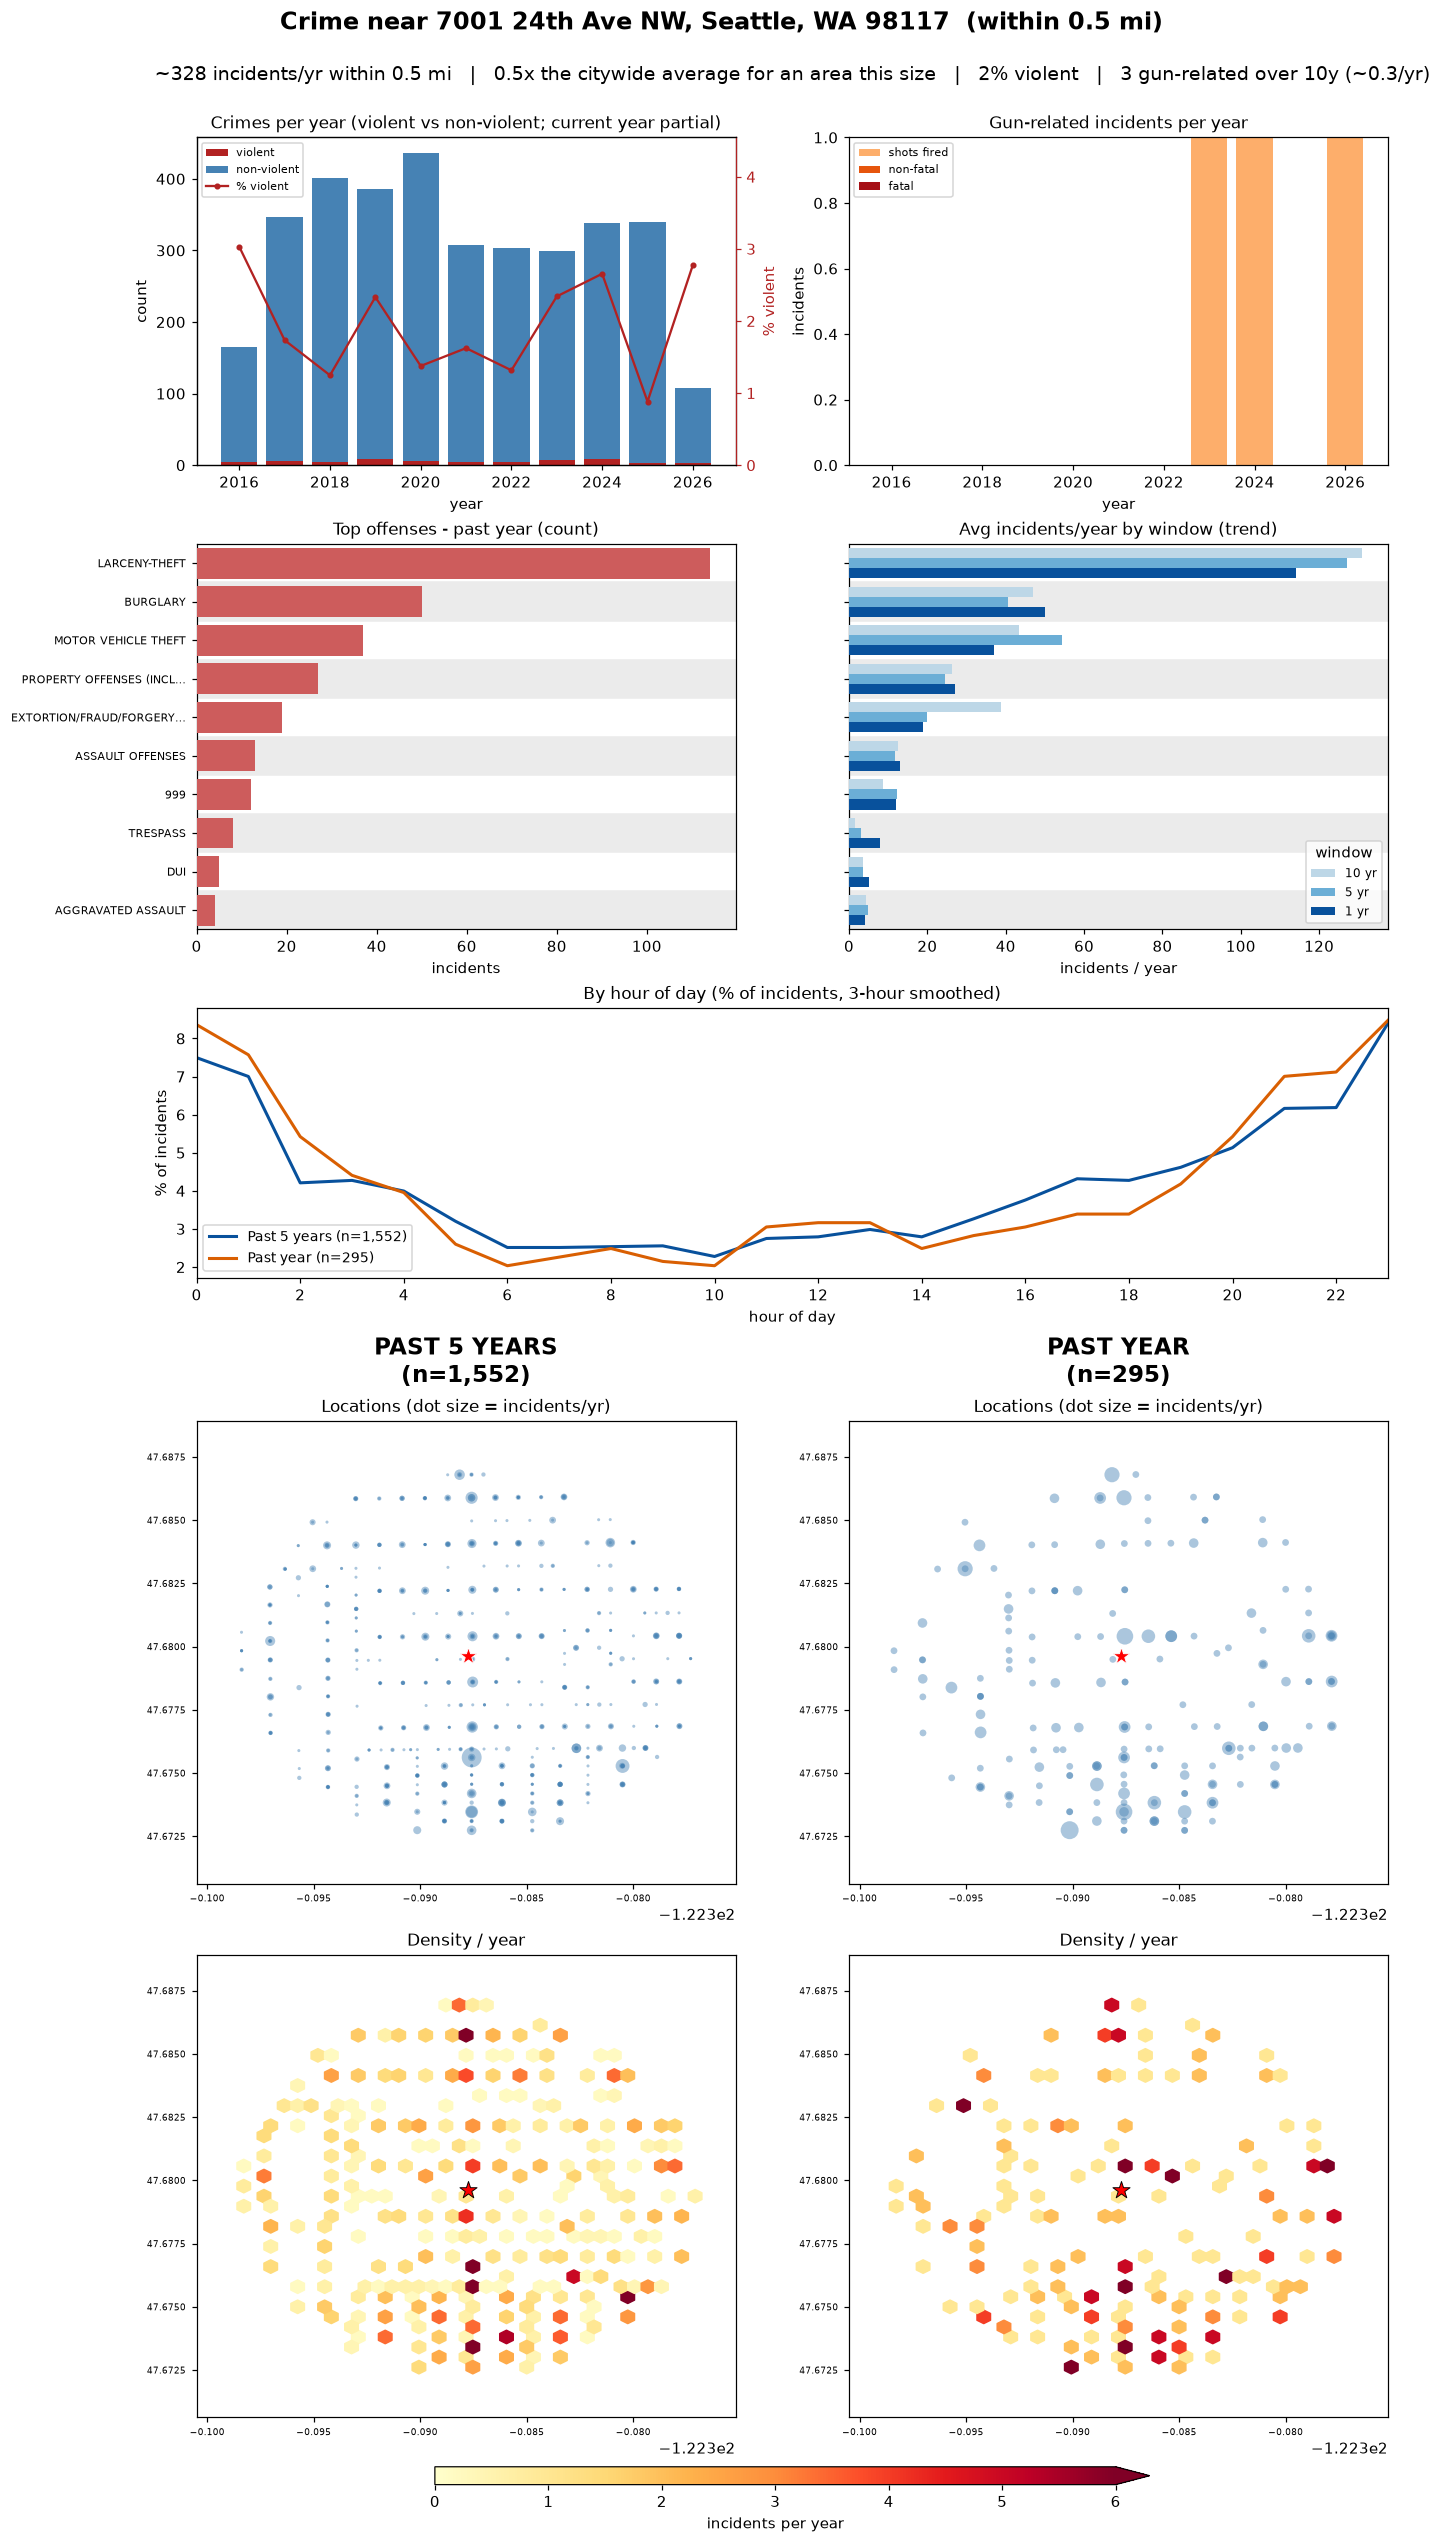
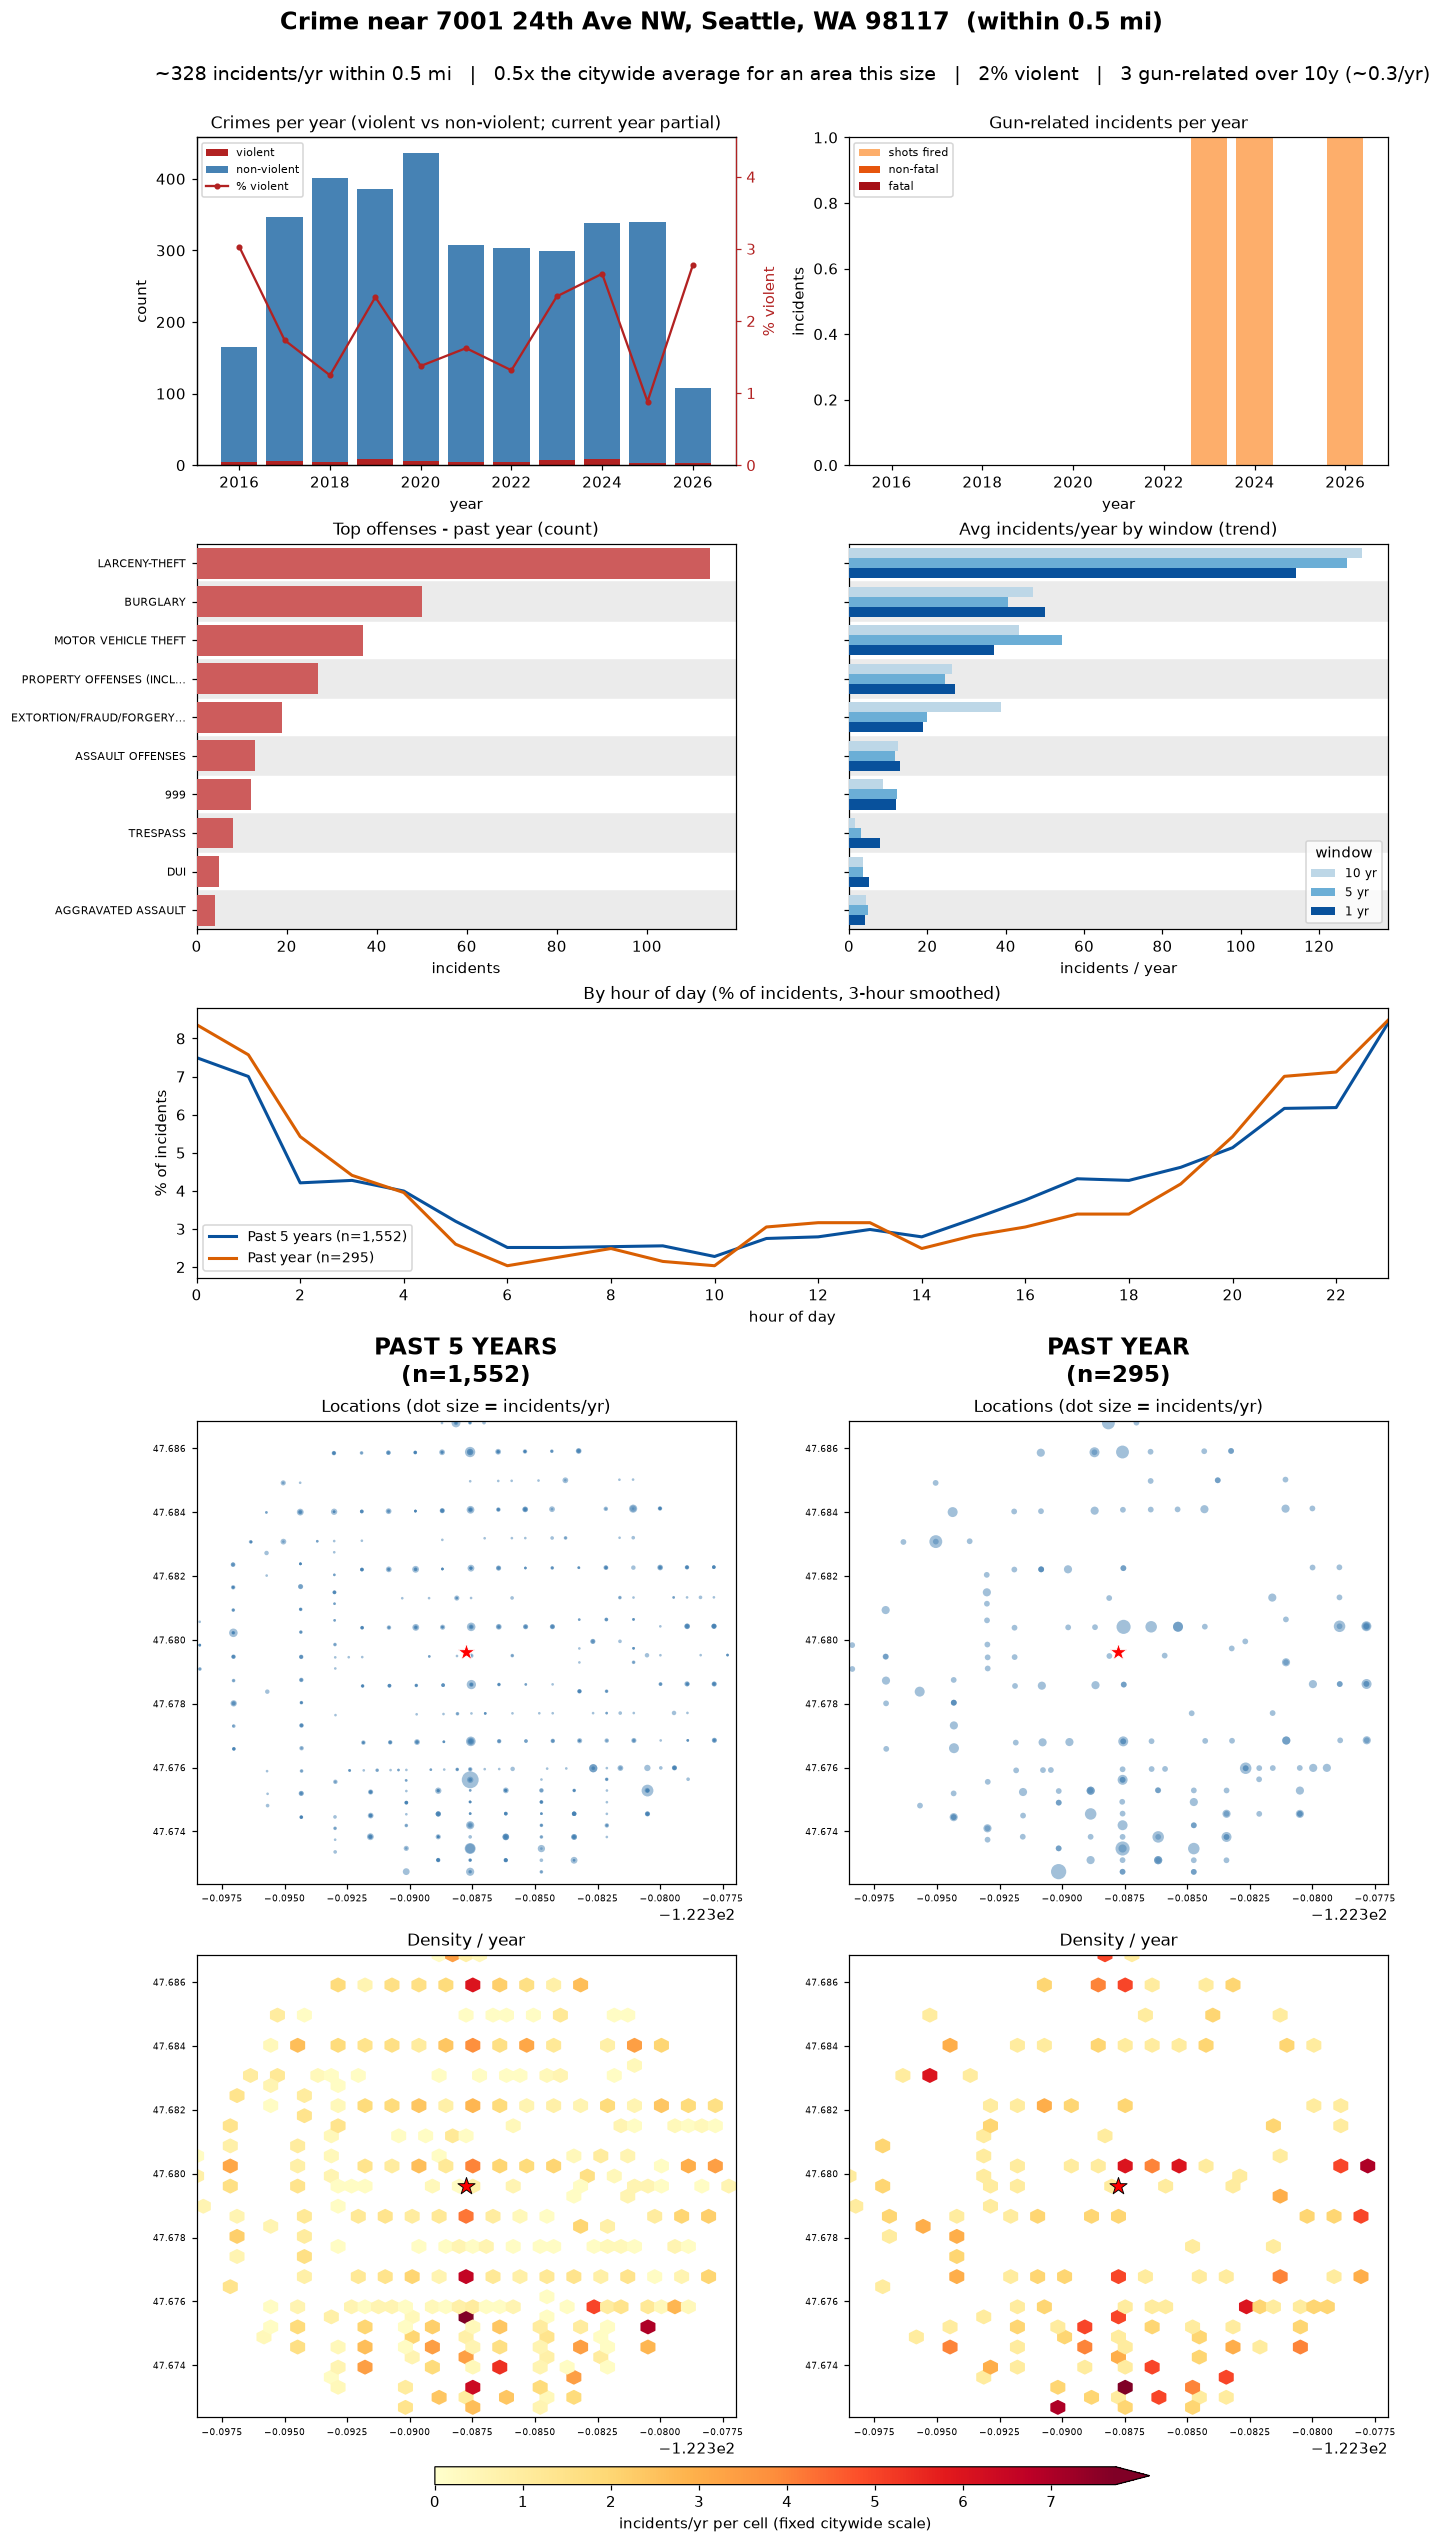
Anchor location/density maps to a citywide busy-block rate
Both maps were normalized per-address, so downtown and a quiet block looked
similarly dense. Pin the dot-size scale and the density color scale to a fixed
citywide reference (CITY_REF = 99th-percentile per-block incidents/year) and use
a fixed +/- radius map box, so maps are comparable BETWEEN dashboards — downtown
now reads far denser than Ballard.

- METHODOLOGY: document the citywide anchor and the fixed map box
- examples: rebuild downtown + Ballard with the anchored maps

diff --git a/METHODOLOGY.md b/METHODOLOGY.md
@@ -47,7 +47,7 @@ typical Seattle area of the same size?*, assuming the city's overall incident de
 Both `N_local` and `N_city` are counted over the **same** time window, so the window
 cancels and the ratio is time-independent. Equivalently:
 
-```
+```text
 ratio = (N_local / N_city) · (S / A)
 ```
 
@@ -88,26 +88,39 @@ each hour is `count_in_hour / total × 100`. Each curve is smoothed with a cente
 does not spike the line. Plotting percentages — rather than counts — lets the two
 periods be compared despite very different totals.
 
+## A citywide anchor for the maps
+
+Both maps are scaled against a single **citywide reference rate**, `CITY_REF` — the
+99th-percentile per-block incident rate across the whole city (a "busy block,"
+~8 incidents/year). Because Seattle reports coordinates at block level, every incident
+at a block stacks onto one point, so a block's rate is a natural unit. Pinning both maps
+to this same anchor — identical for every address — is what makes them **comparable
+between dashboards**: a dense area like downtown saturates while a quiet block stays
+pale, instead of each address being rescaled to its own maximum.
+
+Both maps also use a **fixed box of ±`RADIUS_MILES`** around the address, so the spatial
+scale (and the density cell size) is identical on every dashboard.
+
 ## Location map (proportional symbols)
 
 Incidents are collapsed to **unique block points**; each point's rate is
-`count / period_years`. Marker **area** is proportional to that rate, scaled by a single
-maximum shared across both periods:
+`count / period_years`. Marker **area** is proportional to that rate, scaled against the
+citywide anchor and capped:
 
-```
-size = clip( rate / rate_max × 170 , min = 4 )
+```text
+size = clip( rate / CITY_REF × 110 , min = 3 , max = 190 )
 ```
 
-So a dot of a given size means the same incidents/year in either column, and area (not
-overplotted opacity) encodes how busy each spot is.
+So a dot of a given size means the same incidents/year on any dashboard; blocks at or
+above the busy-block rate render at (capped) full size.
 
 ## Density heatmap (incidents per year)
 
-A hexbin (grid size 40) over a fixed extent. Each incident contributes `1 / period_years`
-to its cell, summed, so every hexagon reads as **incidents per year**. Both periods share
-one color scale, and its maximum is **clipped at the 97th percentile** of all cell values
-so a single hotspot does not wash out everything else (the colorbar's arrow marks the
-clip). Cells with no incidents are left blank.
+A hexbin (grid size 40) over the fixed box. Each incident contributes `1 / period_years`
+to its cell, summed, so every hexagon reads as **incidents per year**. The color scale is
+pinned from 0 to `CITY_REF` — the same citywide anchor — so colors mean the same thing
+across dashboards. Cells above the anchor saturate (the colorbar's arrow marks the clip);
+empty cells are blank.
 
 ## Gun-related incidents
 